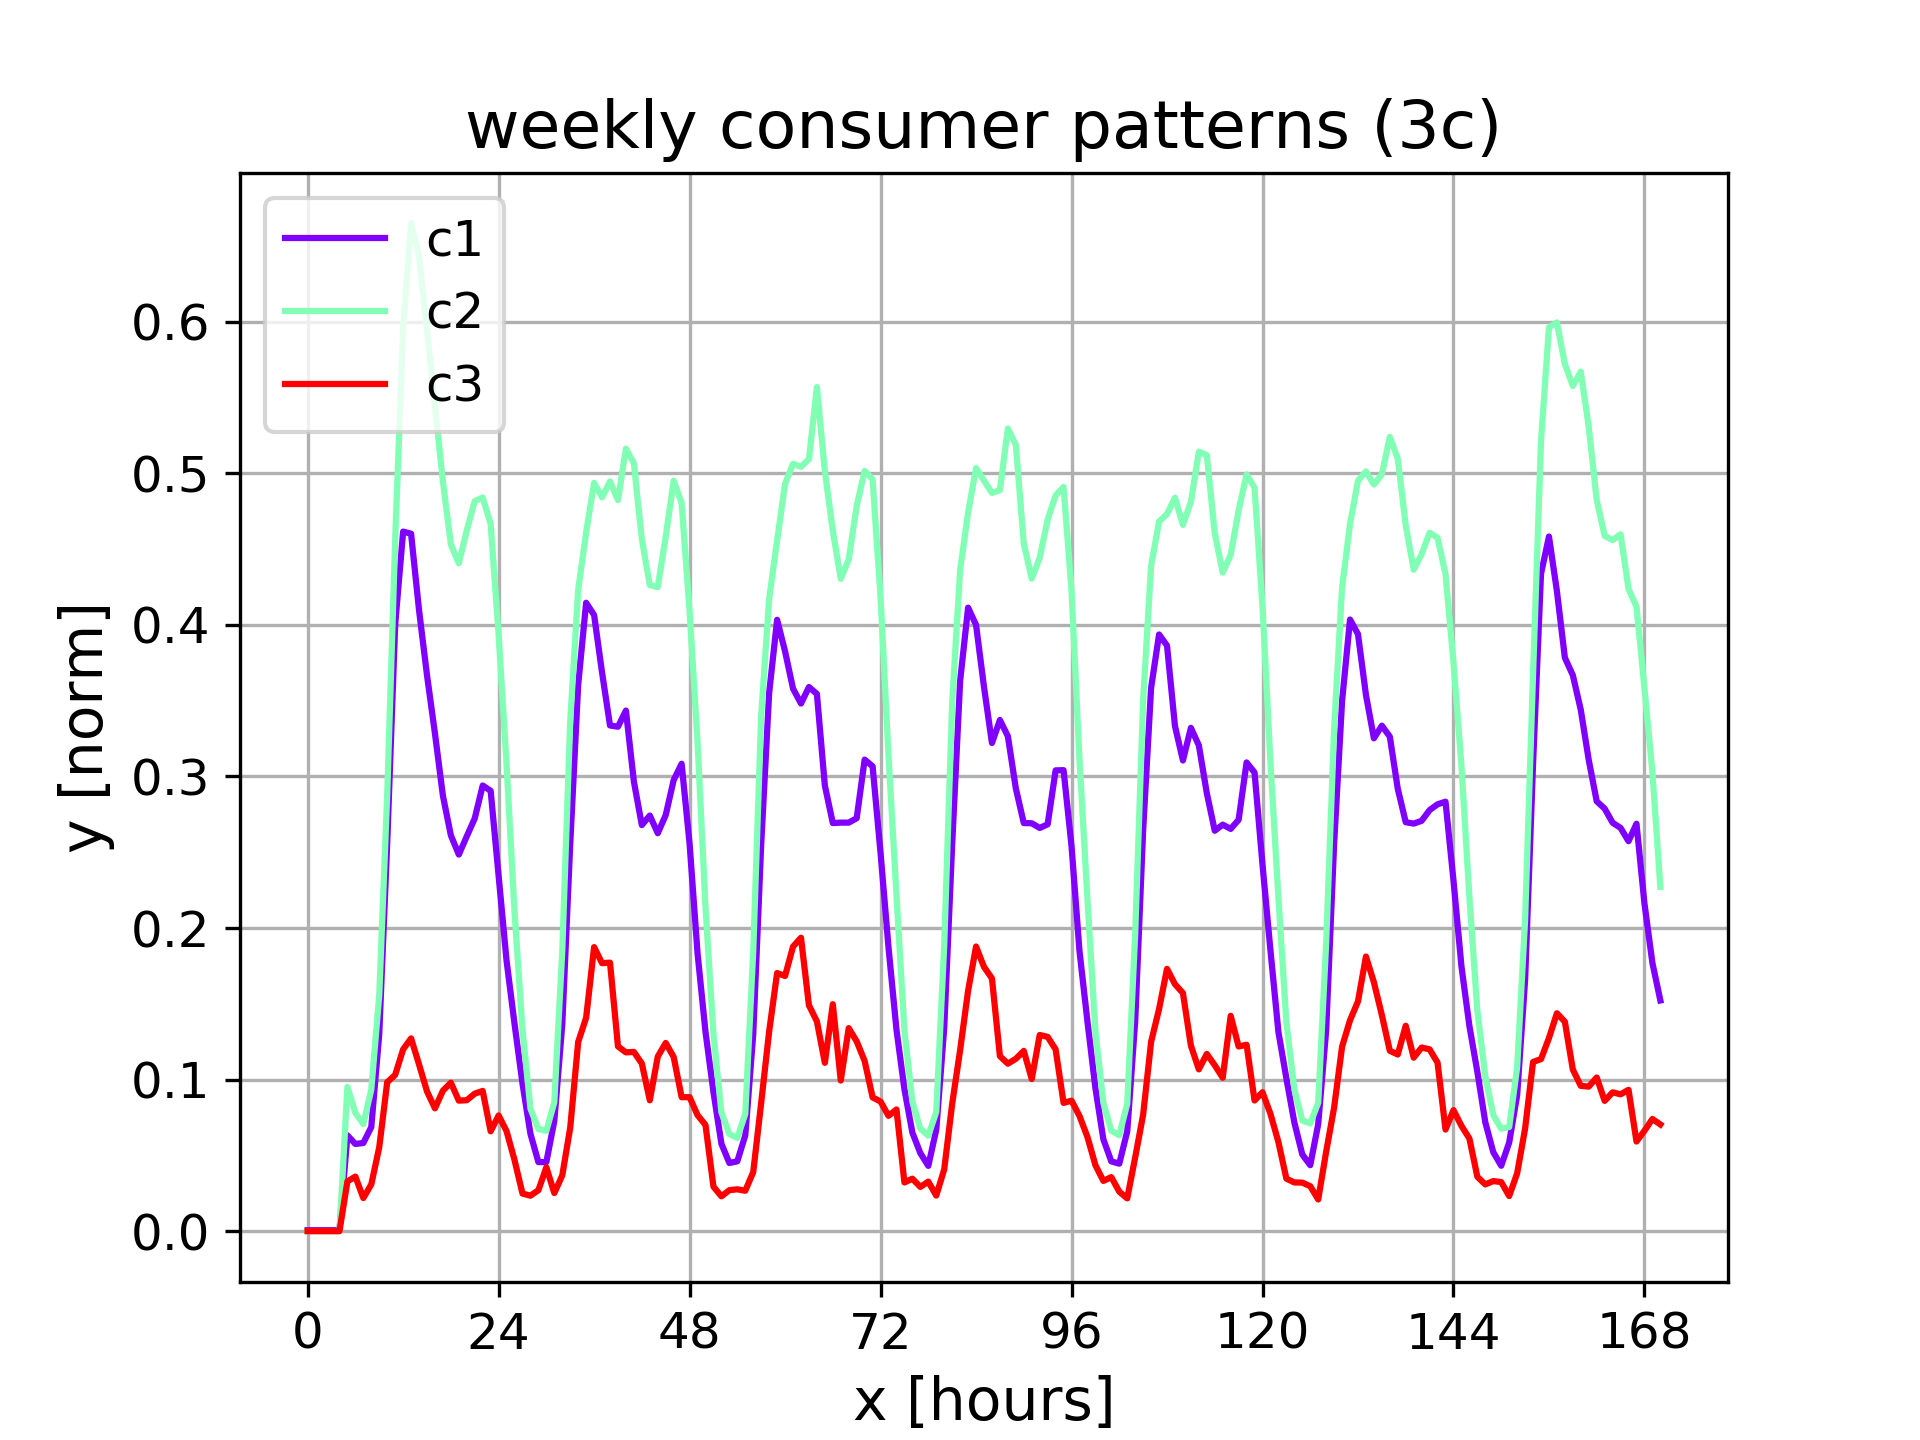
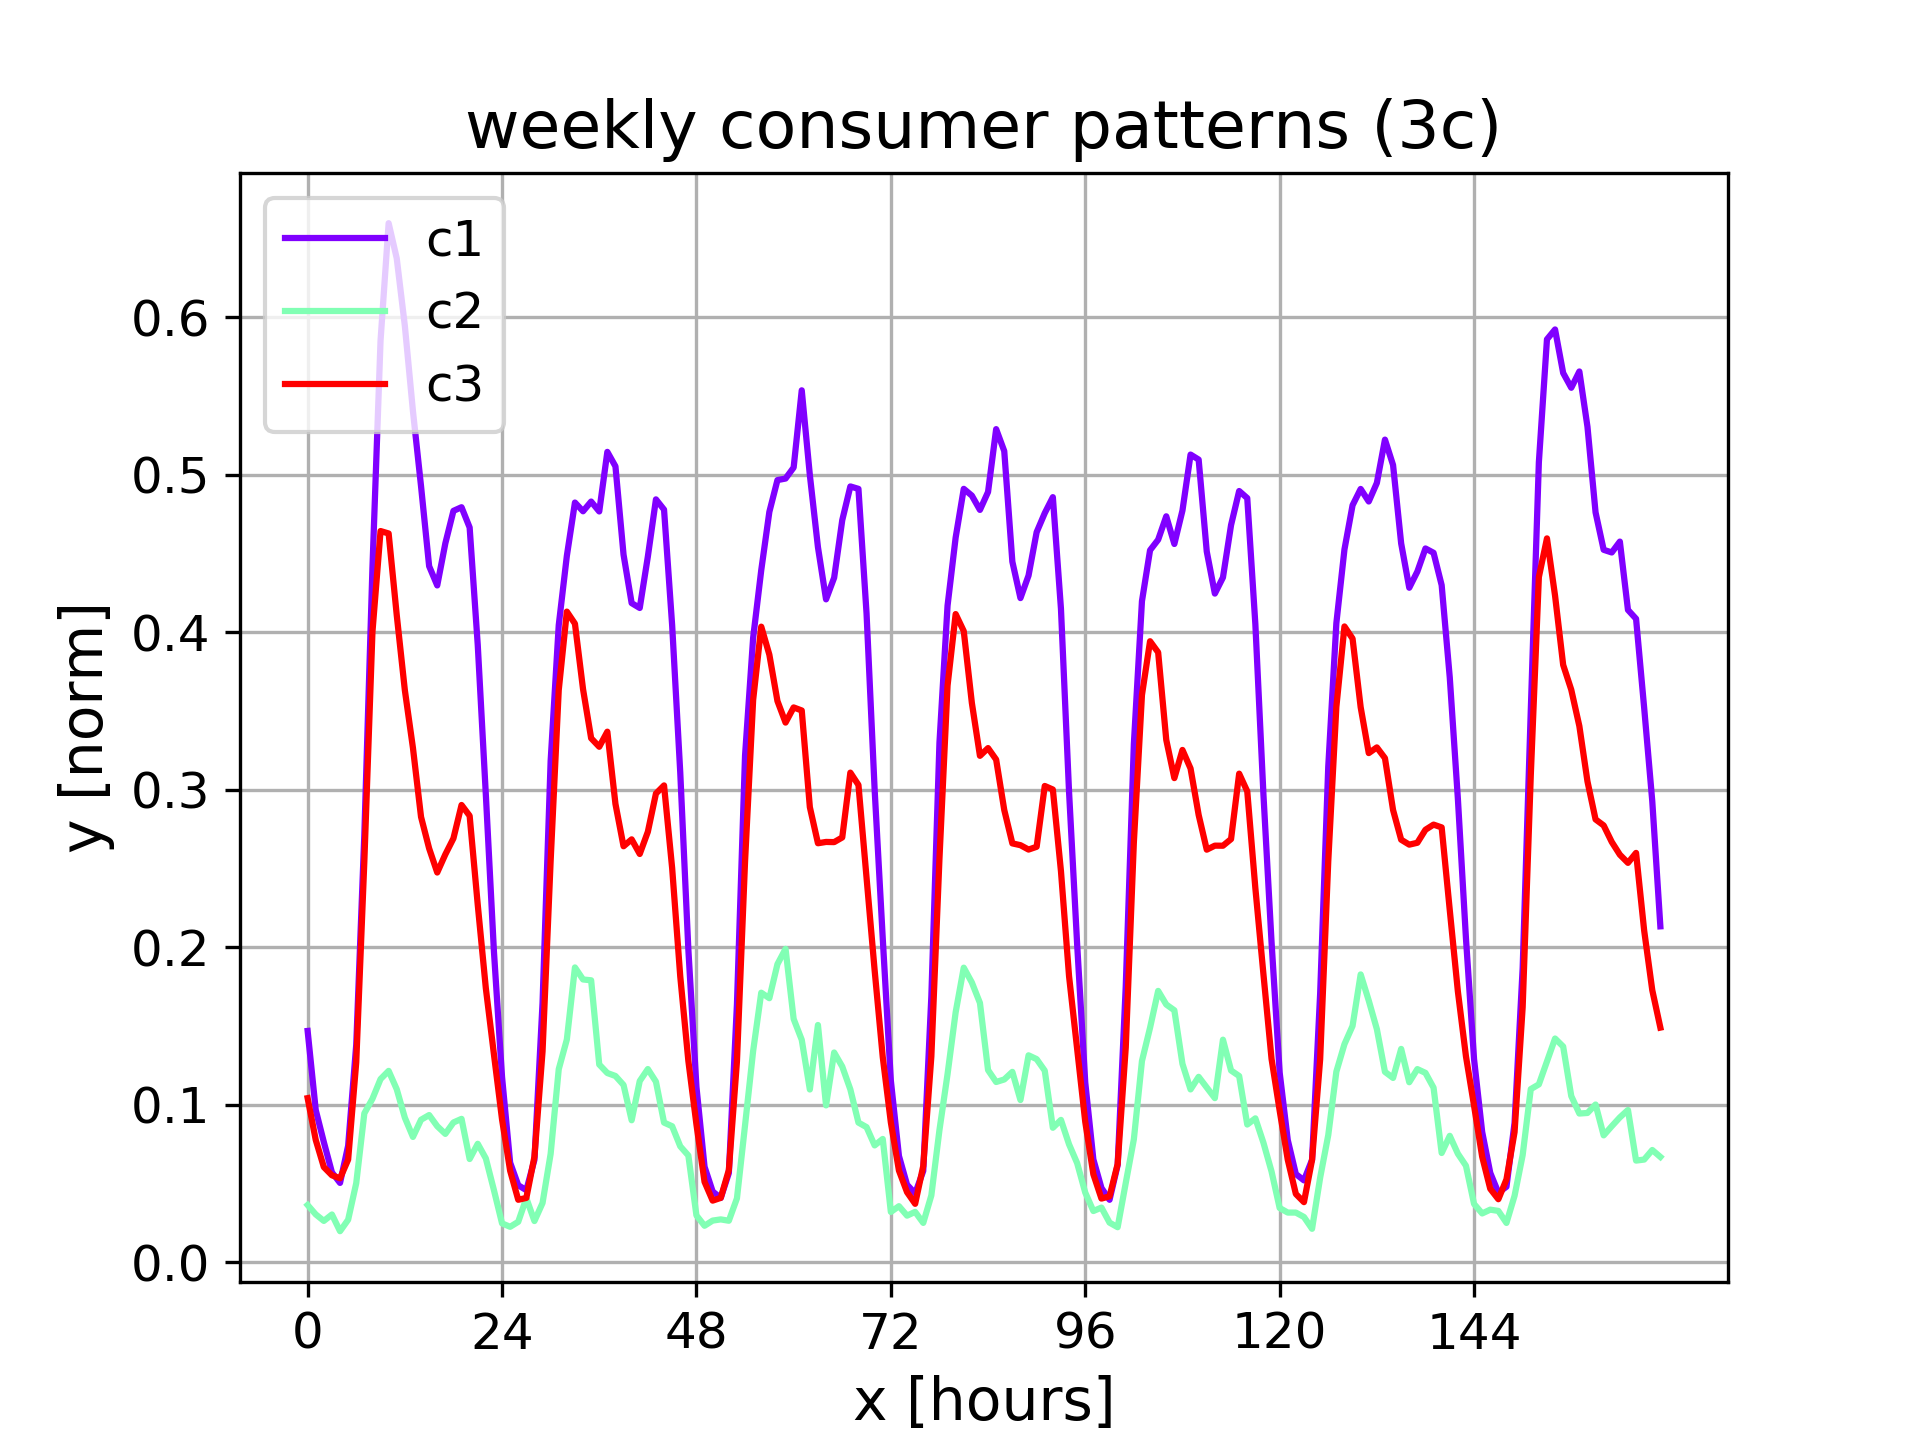
added clustering methods

diff --git a/clustering/ts_clustering_test_1.py b/clustering/ts_clustering_test_1.py
@@ -1,0 +1,88 @@
+import pandas as pd
+from sklearn.cluster import OPTICS, KMeans
+import numpy as np
+import matplotlib.pyplot as plt
+import sys
+from statsmodels.tsa.seasonal import seasonal_decompose
+from matplotlib import rcParams
+
+# import pandas as pd
+# import seaborn as sns
+# import matplotlib.pyplot as plt
+# from pandas.plotting import register_matplotlib_converters
+# register_matplotlib_converters()
+# sns.set_style('darkgrid')
+
+colors = {
+    0: 'red',
+    1: 'blue',
+    2: 'green',
+    3: 'purple',
+    4: 'orange'
+}
+
+def TSAnalysis(series, seasonal=24, robust=False):
+    result = seasonal_decompose(series, period=24)
+    result.plot()
+    plt.show()
+
+def KMeansClustering(X, n_clusters=5):
+    model = KMeans(n_clusters=n_clusters)
+    clusters = model.fit_predict(X)
+    centers = model.cluster_centers_
+    return clusters, centers
+
+    
+
+def OpticsClustering(X, samples=5):
+    model = OPTICS(min_samples=25) #adjust minimum samples
+    clusters = model.fit_predict(X)
+    return clusters
+    
+# python3.7 ts_clustering.py water_avg_weekly.csv 100 5
+if __name__ == "__main__":
+    if len(sys.argv) < 2:
+        fn = "data/Water weekly/water_avg_weekly.csv"
+        samples = 100
+        n_clusters = 5
+    else:
+        fn = sys.argv[1]
+        samples = int(sys.argv[2])
+        n_clusters = int(sys.argv[3])
+
+    df = pd.read_csv(fn, sep=',', header=None)
+    X = df.iloc[:, [1, 2]]
+    # X_Kmeans = df.iloc[:, 3:]
+
+    #  First cluster by geo-coordinates
+    clusters = OpticsClustering(X, samples=samples)
+    values = np.unique(clusters)
+    print("No. geo-coordinates clusters", len(values))
+
+    print(clusters)
+
+    X_ts = {}
+
+    rcParams['axes.titlepad'] = 40
+
+    # get geo-coordinats clusters (group of consumers within identified zones)
+    for elem in values:
+        X_ts[elem] = df.iloc[np.where(clusters == elem)].iloc[:, 3:]
+
+    # cluster by each geo-coodinates cluster
+    for i, elem in enumerate(X_ts):
+        clusters, centers = KMeansClustering(X_ts[elem], n_clusters=n_clusters)
+
+        # plot centers
+        plt.figure(figsize=(8,6))
+        for idx in range(0, n_clusters):
+            plt.plot(centers[idx], label='C'+str(idx+1), color = colors[idx])
+        plt.legend(bbox_to_anchor=(0., 1.02, 1., .102), loc='lower left', ncol=n_clusters, mode="expand", borderaxespad=0.)
+        # plt.legend(loc='right', ncol=n_clusters)
+        plt.title("zone " + str(i+1) + " clusters")
+  
+        plt.show()
+
+        # Analyze the TS for each center
+        # for idx in range(0, n_clusters):
+        #     TSAnalysis(centers[idx])

diff --git a/clustering/show_data_chart.py b/clustering/show_data_chart.py
@@ -145,9 +145,9 @@ for option in options:
 
     start_index = 1
     end_index = None
-    start_col = 6
+    start_col = 3
     end_col = None
-    fill_start = True
+    fill_start = False
 
     norm_sum = option["norm_sum"]
     norm_axis = option["norm_axis"]
